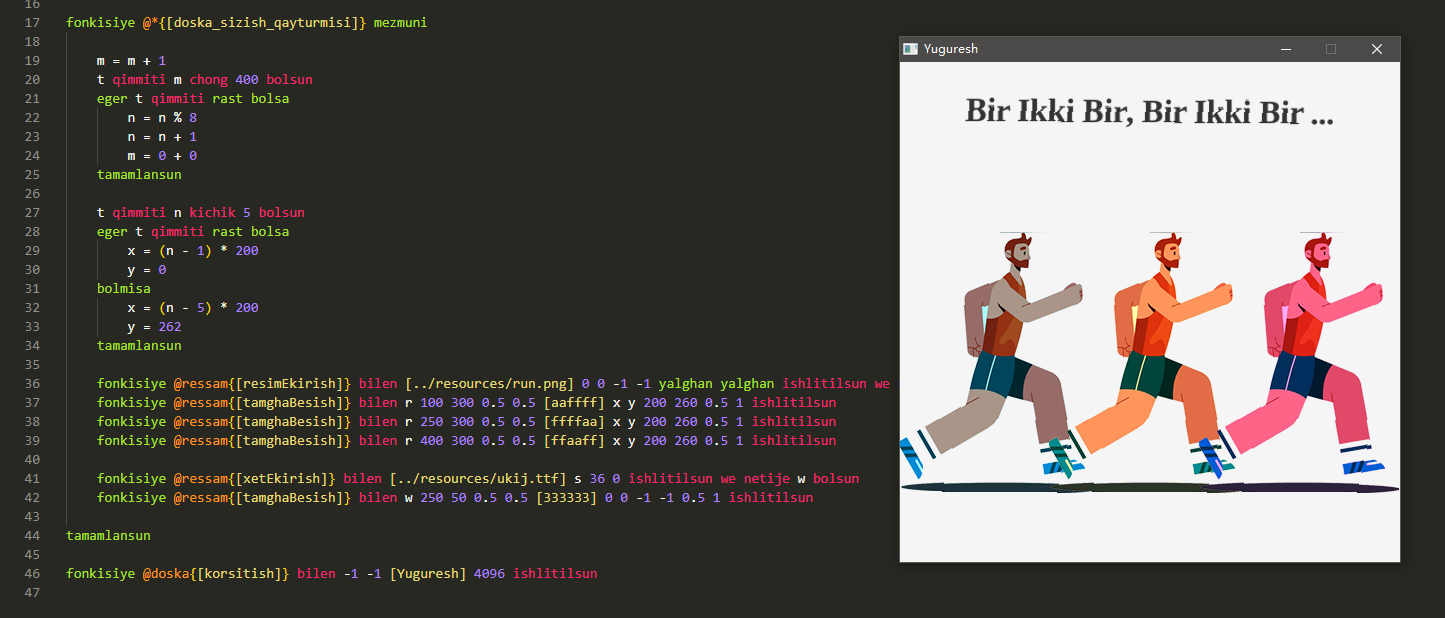
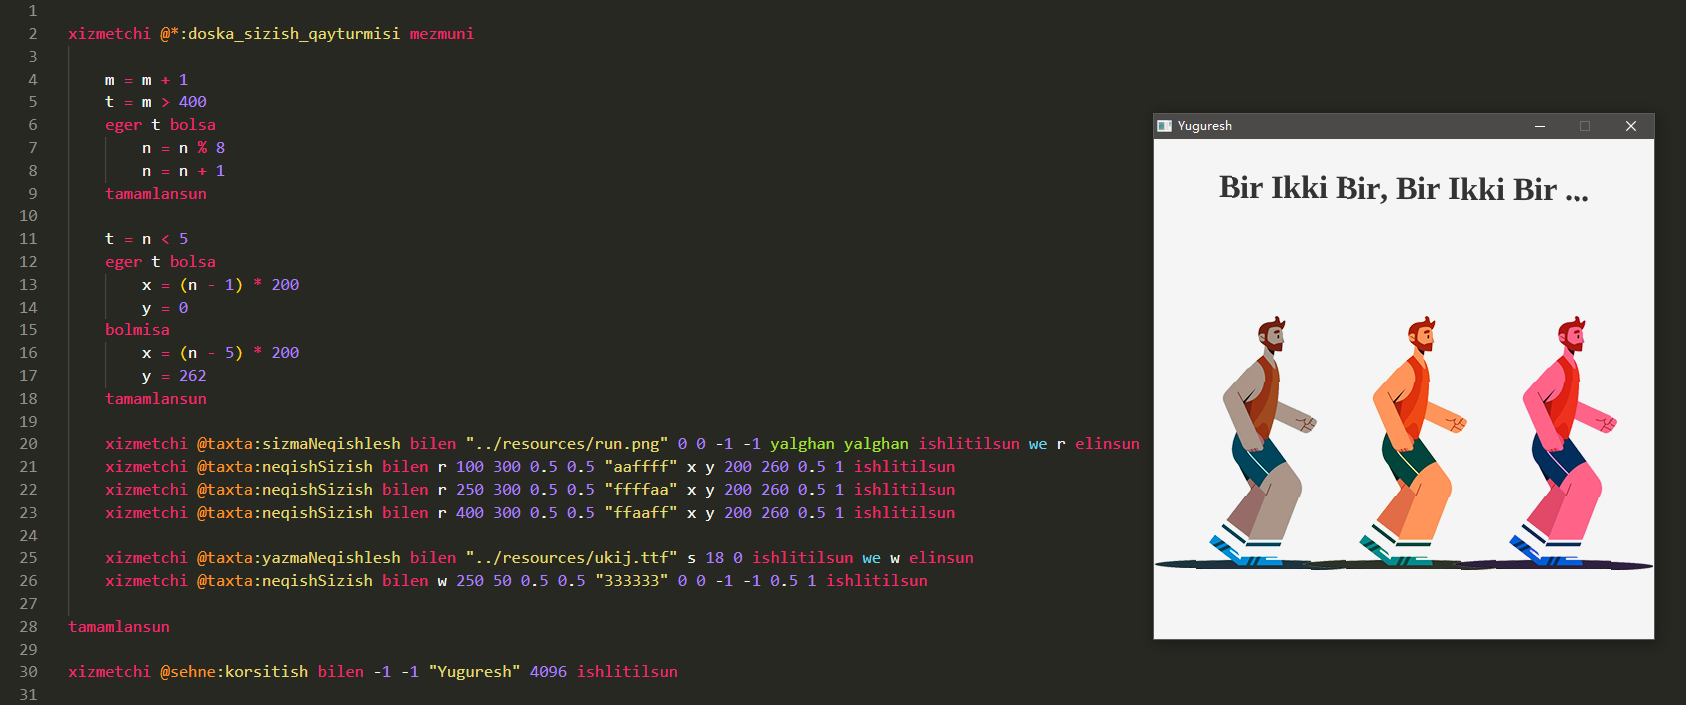
update example

diff --git a/scripts/interpreter.py b/scripts/interpreter.py
@@ -4,8 +4,8 @@ from scripts.base import *
 ################################################################
 
 # SCRIPT_PATH = "./examples/help.ug"
-SCRIPT_PATH = "./examples/sinaq.ug"
-# SCRIPT_PATH = "./examples/externals/yuguresh.ug"
+# SCRIPT_PATH = "./examples/sinaq.ug"
+SCRIPT_PATH = "./examples/externals/yuguresh.ug"
 # SCRIPT_PATH = "./examples/features/objective.ug"
 
 SCRIPT_DIR, SCRIPT_FILE, SCRIPT_EXT, SCRIPT_NAME = tools.tools.parse_path(SCRIPT_PATH)

diff --git a/uyghur/externals/board.c b/uyghur/externals/board.c
@@ -182,7 +182,7 @@ Texture raylib_texturize_text(TxtInfo info, USTRING tag)
         return tex[0];
     }
     //
-    Font font = raylib_load_font(info.path, 128);
+    Font font = raylib_load_font(info.path, info.size);
     Image img = ImageTextEx(font, info.text, info.size, info.spacing, WHITE);
     Texture texture = _board_save_texture(img, tag);
     raylib_unload_font(info.path);
